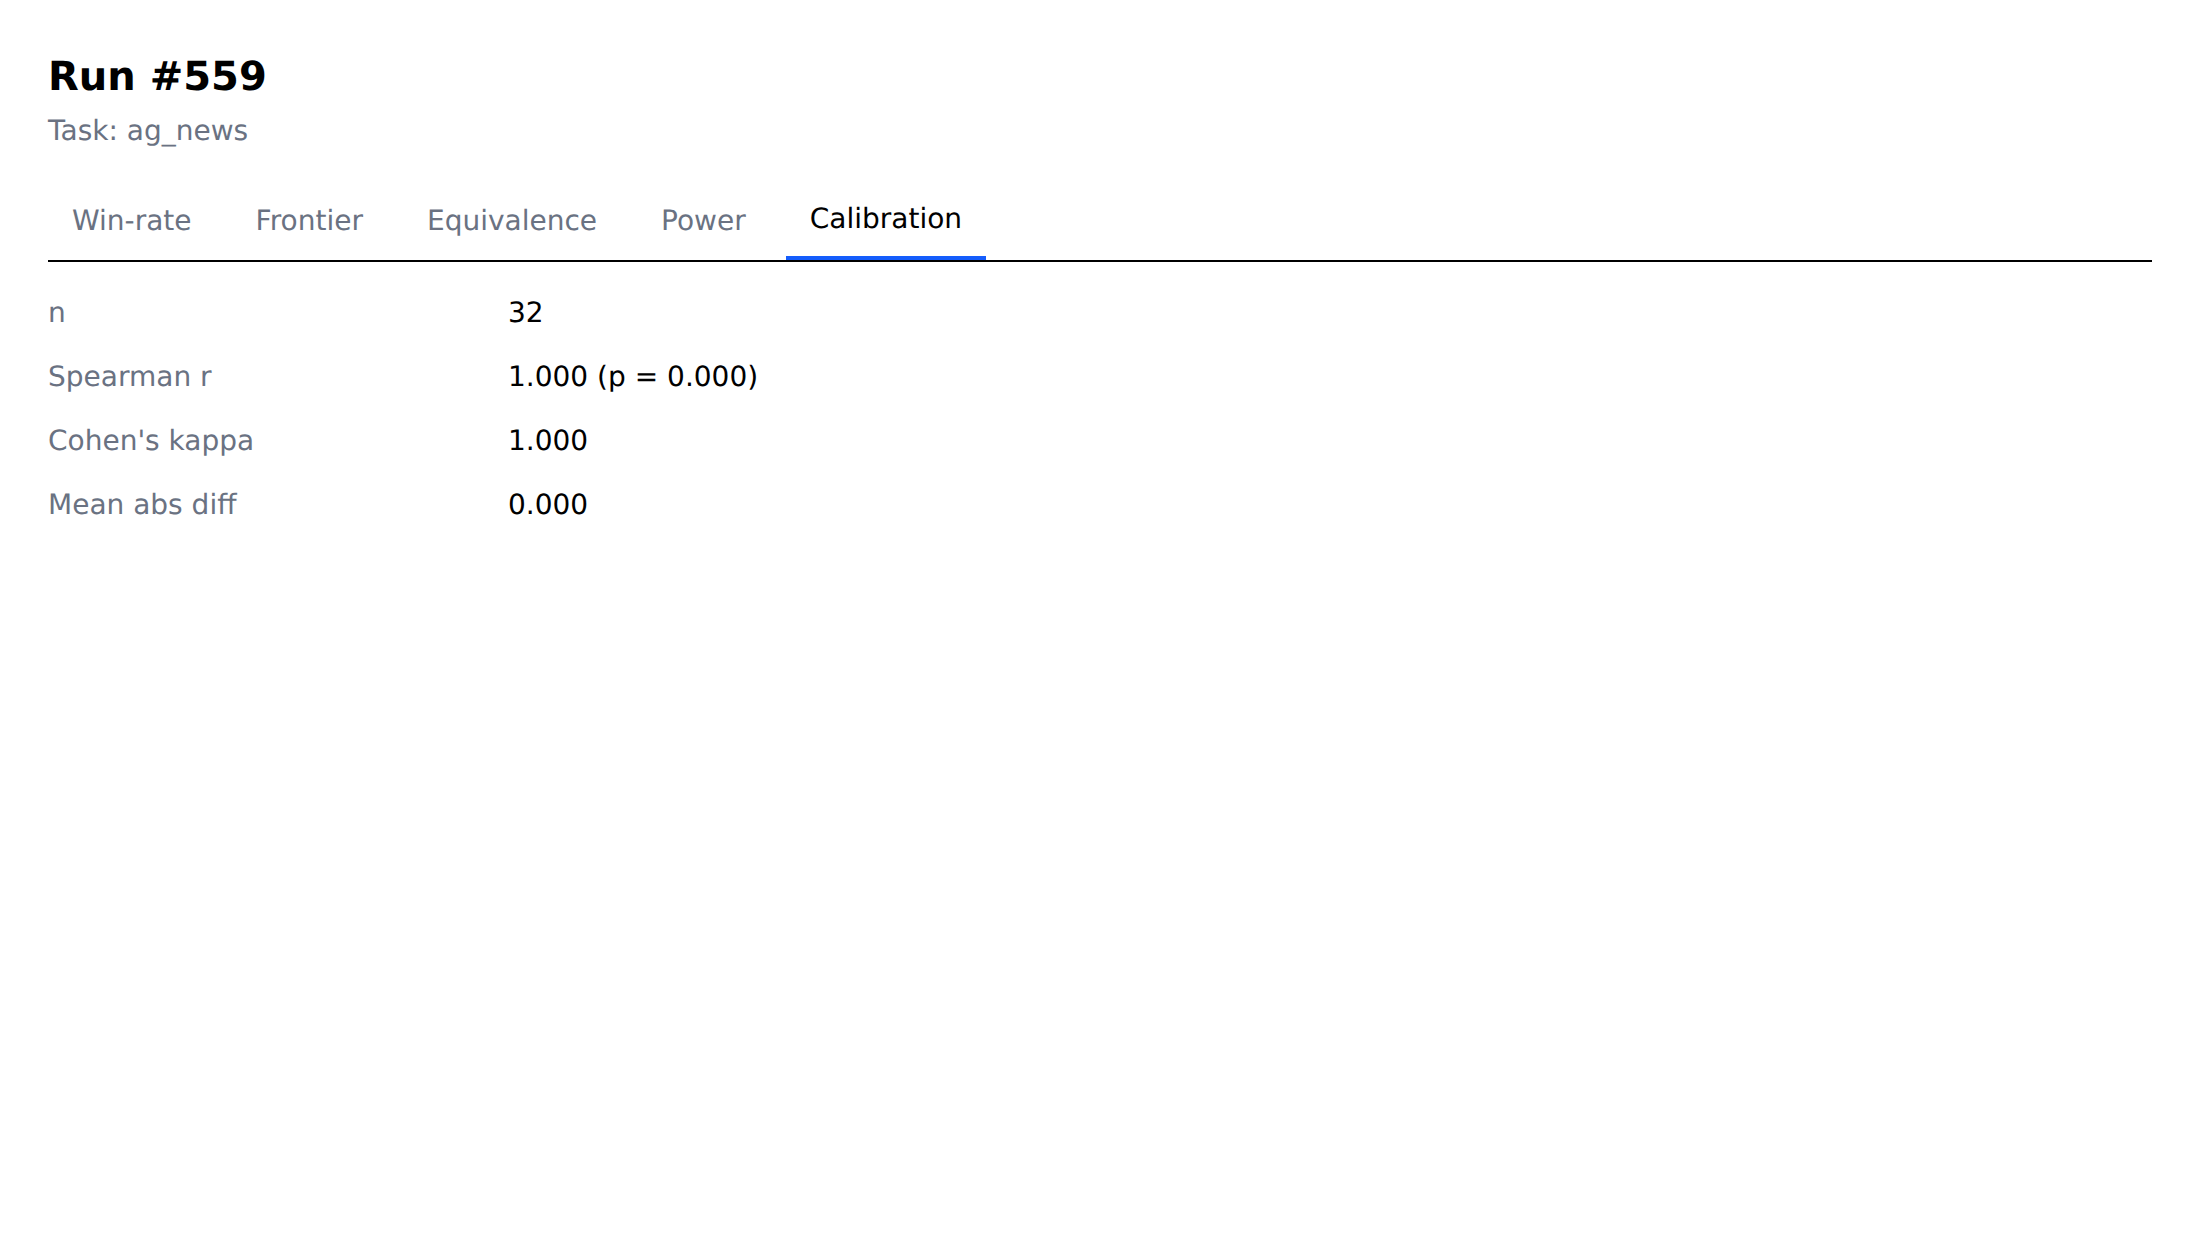
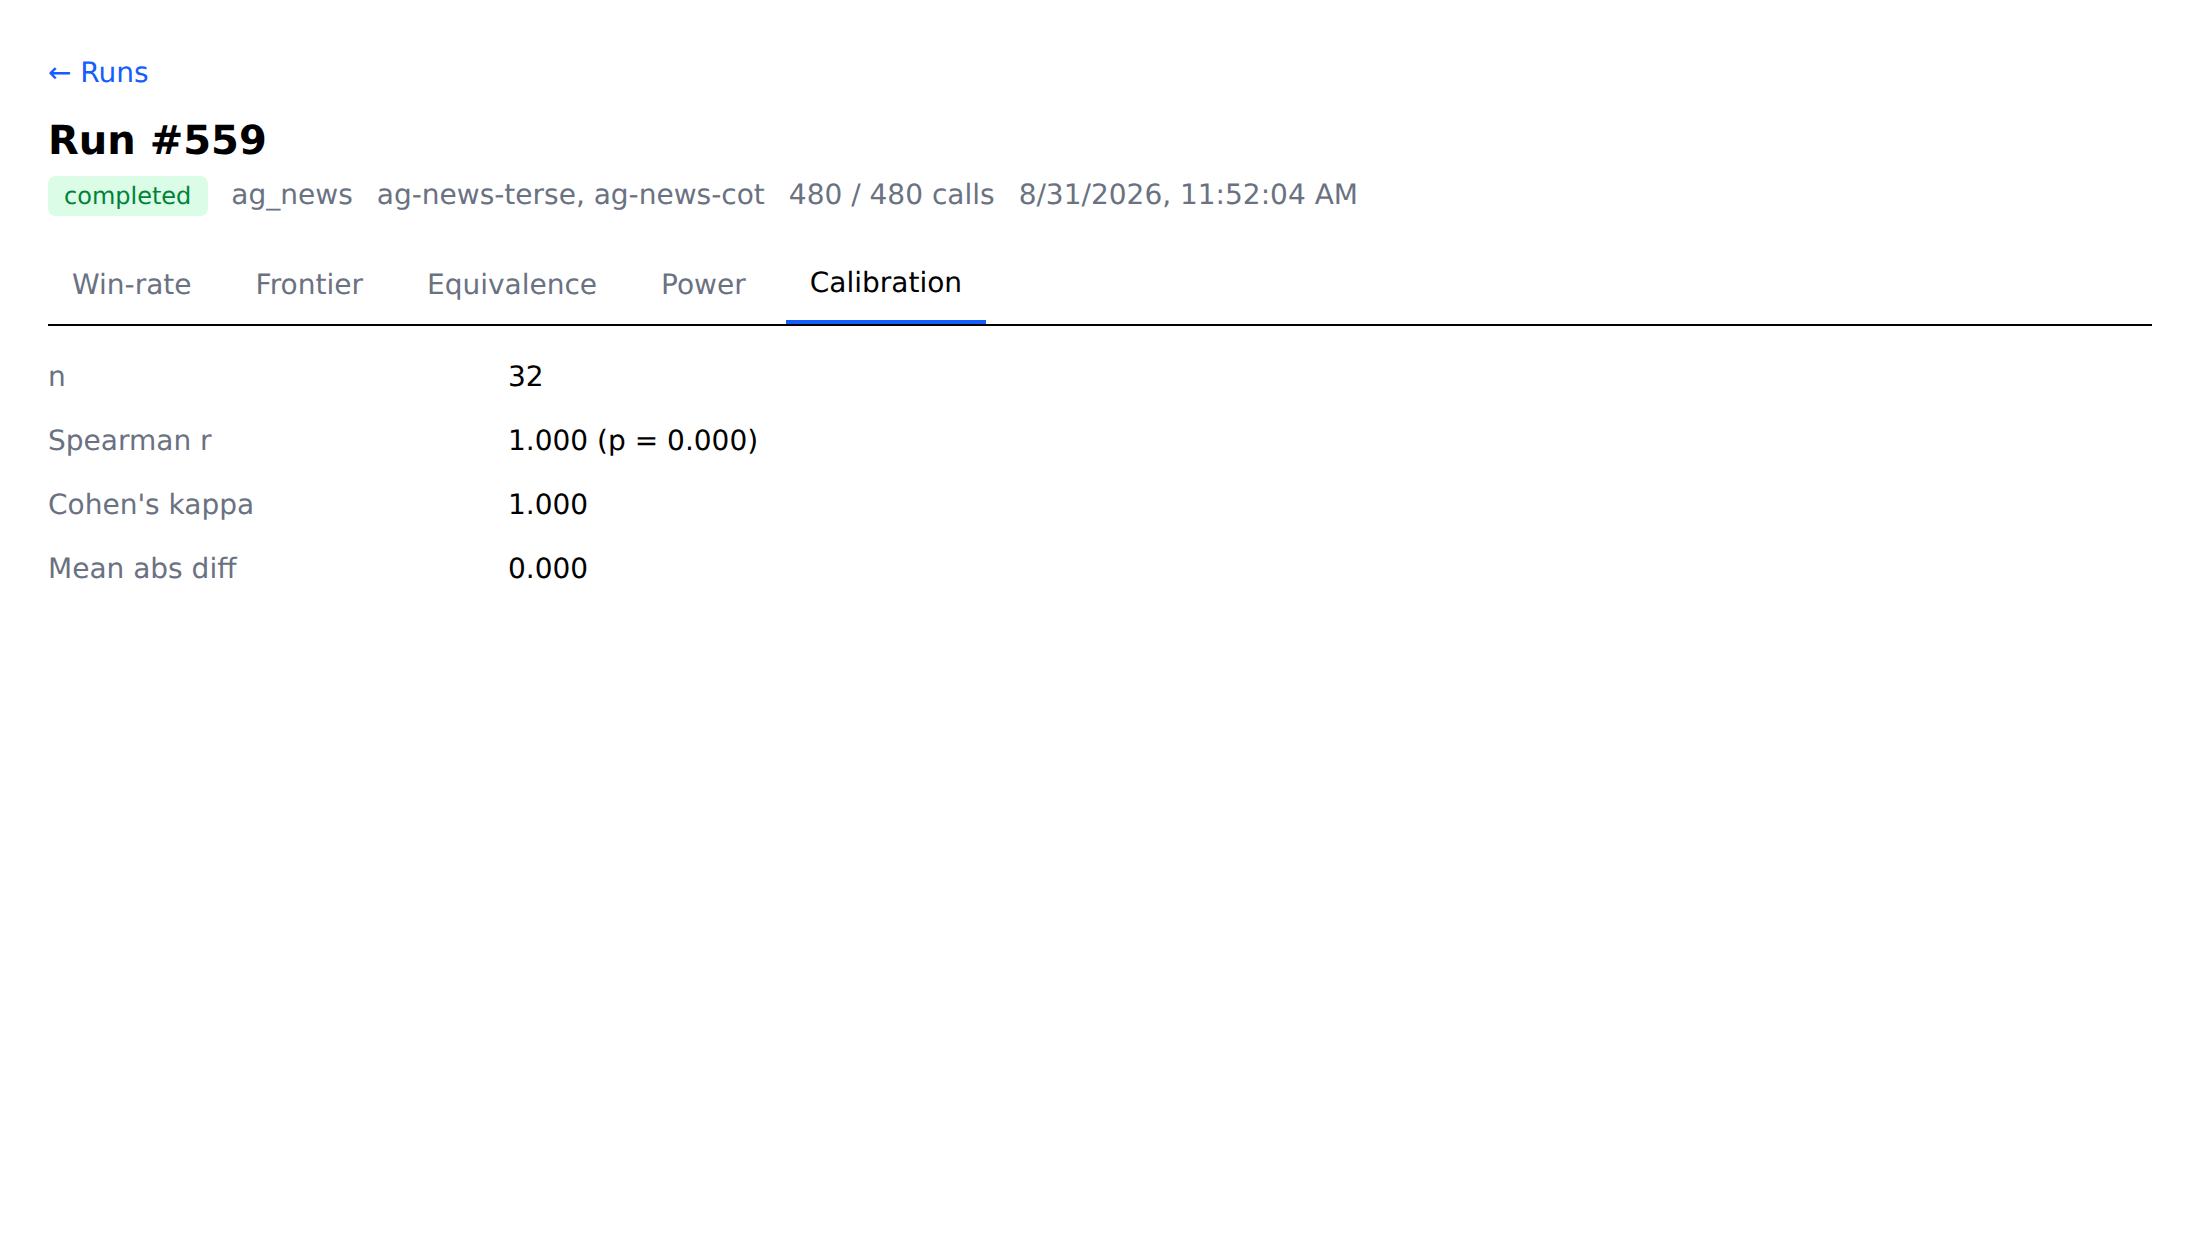
feat(dashboard): run header + back-link, fix frontier label overlap
Dashboard usability:
- RunDashboardPage gets a "← Runs" link and a run header showing status
  badge, task, arm names, call progress (with failed count), and created
  time; polls while the run is non-terminal.
- GET /runs/{id} (RunStatusResponse) now returns created_at + arm_names.

Frontier chart label overlap:
- FrontierChart: arm labels alternate above/below the point and anchor at
  the marker so coincident arms (e.g. two zero-cost local arms) no longer
  print on top of each other; added real axis titles, fixed Y domain 0–5,
  smaller semi-transparent bubbles, and a caption about zero-cost overlap.
- finetune_report.py frontier PNG: alternating label offsets with leader
  lines + axis padding so edge labels stay in frame.

Regenerated the four docs/img dashboard screenshots against run 559.

diff --git a/frontend/src/components/FrontierChart.tsx b/frontend/src/components/FrontierChart.tsx
@@ -14,6 +14,30 @@ import { fetchRunSummary } from '../api/client';
 import { QueryState } from './QueryState';
 import { toFrontierPoints, type FrontierPoint } from './frontier';
 
+// Points can land on top of each other (e.g. two local arms both at cost 0 with
+// near-identical quality). Stagger the labels vertically by index so the text
+// never overlaps, and nudge alternate labels left/right.
+function ArmLabel(props: {
+  x?: number;
+  y?: number;
+  value?: string | number;
+  index?: number;
+}) {
+  const { x = 0, y = 0, value, index = 0 } = props;
+  const above = index % 2 === 0;
+  return (
+    <text
+      x={x + 10}
+      y={y + (above ? -10 : 18)}
+      textAnchor="start"
+      fontSize={11}
+      fill="#4b5563"
+    >
+      {value}
+    </text>
+  );
+}
+
 export function FrontierChart({ runId }: { runId: number }) {
   const { data, isLoading, error, refetch } = useQuery({
     queryKey: ['run-summary', runId],
@@ -24,12 +48,33 @@ export function FrontierChart({ runId }: { runId: number }) {
 
   return (
     <QueryState isLoading={isLoading} error={error} onRetry={refetch}>
-      <ResponsiveContainer width="100%" height={400}>
-        <ScatterChart margin={{ top: 20, right: 20, bottom: 20, left: 20 }}>
+      <p className="mb-2 text-xs text-gray-500">
+        Bubble size ∝ mean latency. Local arms sit at cost 0 and can overlap — hover a
+        bubble for exact values.
+      </p>
+      <ResponsiveContainer width="100%" height={420}>
+        <ScatterChart margin={{ top: 24, right: 56, bottom: 48, left: 16 }}>
           <CartesianGrid strokeDasharray="3 3" />
-          <XAxis type="number" dataKey="cost" name="Mean cost ($)" />
-          <YAxis type="number" dataKey="quality" name="Mean quality" />
-          <ZAxis type="number" dataKey="latency" range={[100, 1000]} name="Mean latency (ms)" />
+          <XAxis
+            type="number"
+            dataKey="cost"
+            domain={[0, (max: number) => (max > 0 ? max * 1.25 : 0.001)]}
+            tickFormatter={(v: number) => `$${v.toFixed(4)}`}
+            label={{ value: 'Mean cost per call ($)', position: 'insideBottom', offset: -12 }}
+          />
+          <YAxis
+            type="number"
+            dataKey="quality"
+            domain={[0, 5]}
+            allowDecimals
+            label={{
+              value: 'Mean judge quality (1–5)',
+              angle: -90,
+              position: 'insideLeft',
+              style: { textAnchor: 'middle' },
+            }}
+          />
+          <ZAxis type="number" dataKey="latency" range={[80, 500]} name="Mean latency (ms)" />
           <Tooltip
             cursor={{ strokeDasharray: '3 3' }}
             content={({ payload }) => {
@@ -45,8 +90,8 @@ export function FrontierChart({ runId }: { runId: number }) {
               );
             }}
           />
-          <Scatter data={points} fill="#2563eb">
-            <LabelList dataKey="arm_name" position="top" />
+          <Scatter data={points} fill="#2563eb" fillOpacity={0.65}>
+            <LabelList dataKey="arm_name" content={<ArmLabel />} />
           </Scatter>
         </ScatterChart>
       </ResponsiveContainer>

diff --git a/frontend/src/pages/RunDashboardPage.tsx b/frontend/src/pages/RunDashboardPage.tsx
@@ -1,12 +1,14 @@
 import { useState } from 'react';
 import { useQuery } from '@tanstack/react-query';
-import { useParams } from 'react-router-dom';
+import { Link, useParams } from 'react-router-dom';
 import { fetchRunStatus } from '../api/client';
+import { StatusBadge } from '../components/StatusBadge';
 import { WinRateTable } from '../components/WinRateTable';
 import { FrontierChart } from '../components/FrontierChart';
 import { CalibrationReport } from '../components/CalibrationReport';
 import { EquivalencePanel } from '../components/EquivalencePanel';
 import { PowerPanel } from '../components/PowerPanel';
+import type { RunStatusResponse } from '../api/types';
 
 type TabKey = 'winrate' | 'frontier' | 'equivalence' | 'power' | 'calibration';
 
@@ -18,6 +20,9 @@ const TABS: { key: TabKey; label: string }[] = [
   { key: 'calibration', label: 'Calibration' },
 ];
 
+const POLL_MS = 3000;
+const TERMINAL_STATUSES = new Set(['completed', 'completed_with_errors']);
+
 export function RunDashboardPage() {
   const { runId } = useParams<{ runId: string }>();
   const [tab, setTab] = useState<TabKey>('winrate');
@@ -27,14 +32,38 @@ export function RunDashboardPage() {
     queryKey: ['run-status', runIdNum],
     queryFn: () => fetchRunStatus(runIdNum),
     enabled: Number.isFinite(runIdNum),
+    refetchInterval: (query) => {
+      const run = query.state.data as RunStatusResponse | undefined;
+      return run && TERMINAL_STATUSES.has(run.status) ? false : POLL_MS;
+    },
   });
+
+  const run = statusQuery.data;
 
   return (
     <div className="p-6">
-      <div className="mb-4">
+      <Link to="/" className="text-sm text-blue-600 hover:underline">
+        ← Runs
+      </Link>
+      <div className="mb-4 mt-2">
         <h1 className="text-xl font-semibold">Run #{runIdNum}</h1>
-        {statusQuery.data && (
-          <p className="mt-1 text-sm text-gray-500">Task: {statusQuery.data.task}</p>
+        {run && (
+          <div className="mt-1 flex flex-wrap items-center gap-x-3 gap-y-1 text-sm text-gray-500">
+            <StatusBadge status={run.status} />
+            <span>{run.task}</span>
+            <span>{run.arm_names.join(', ')}</span>
+            <span>
+              {run.completed + run.failed} / {run.total_calls} calls
+              {run.failed > 0 && <span className="text-red-600"> ({run.failed} failed)</span>}
+            </span>
+            {/* Backend stores naive UTC (no offset), so append 'Z' to parse as UTC. */}
+            <span>{new Date(run.created_at + 'Z').toLocaleString()}</span>
+          </div>
+        )}
+        {statusQuery.error && (
+          <p className="mt-1 text-sm text-red-600">
+            {statusQuery.error instanceof Error ? statusQuery.error.message : 'Failed to load run.'}
+          </p>
         )}
       </div>
       <div className="mb-4 flex gap-2 border-b">

diff --git a/frontend/src/api/types.ts b/frontend/src/api/types.ts
@@ -43,6 +43,8 @@ export interface RunStatusResponse {
   run_id: number;
   status: string;
   task: string;
+  created_at: string;
+  arm_names: string[];
   total_calls: number;
   completed: number;
   failed: number;

diff --git a/backend/scripts/finetune_report.py b/backend/scripts/finetune_report.py
@@ -163,8 +163,8 @@ def write_frontier_png(summary: list[dict], out_path: Path) -> bool:
     except ImportError:
         return False
     max_cost = max((row.get("mean_cost_estimate_usd") or 0.0 for row in summary), default=0.0)
-    fig, ax = plt.subplots(figsize=(6, 4))
-    for row in summary:
+    fig, ax = plt.subplots(figsize=(7, 4.5))
+    for i, row in enumerate(summary):
         x = row.get("mean_latency_ms") or 0
         y = row.get("mean_judge_score") or 0
         cost = row.get("mean_cost_estimate_usd")
@@ -176,11 +176,26 @@ def write_frontier_png(summary: list[dict], out_path: Path) -> bool:
         else:
             size = 40.0
             label = f"{row['arm_name']} ($0/call)"
-        ax.scatter(x, y, s=size)
-        ax.annotate(label, (x, y), fontsize=8, xytext=(4, 4), textcoords="offset points")
+        ax.scatter(x, y, s=size, zorder=3)
+        # Arms can land almost on top of each other (two local arms at the same
+        # latency/quality). Alternate the label above/below the point and draw a
+        # thin leader line so the text never overlaps another label.
+        dy = 14 if i % 2 == 0 else -14
+        ax.annotate(
+            label,
+            (x, y),
+            fontsize=8,
+            xytext=(0, dy),
+            textcoords="offset points",
+            ha="center",
+            va="bottom" if dy > 0 else "top",
+            arrowprops={"arrowstyle": "-", "color": "0.6", "lw": 0.6},
+        )
     ax.set_xlabel("mean latency (ms)")
     ax.set_ylabel("mean judge_score (1–5)")
     ax.set_title("Cost / latency / quality frontier (marker size = $/call)")
+    # Pad the axes so edge points and their labels stay inside the frame.
+    ax.margins(x=0.25, y=0.30)
     fig.tight_layout()
     fig.savefig(out_path, dpi=120)
     plt.close(fig)

diff --git a/backend/app/api/routes/runs.py b/backend/app/api/routes/runs.py
@@ -41,6 +41,8 @@ class RunStatusResponse(BaseModel):
     run_id: int
     status: str
     task: str = "financial_sentiment"
+    created_at: datetime
+    arm_names: list[str]
     total_calls: int
     completed: int
     failed: int
@@ -212,6 +214,8 @@ async def get_run_status(run_id: int, session: AsyncSession = Depends(get_sessio
         run_id=run.id,
         status=status,
         task=run.task,
+        created_at=run.created_at,
+        arm_names=run.arm_names,
         total_calls=run.total_calls,
         completed=completed,
         failed=failed,

diff --git a/backend/tests/api/test_runs.py b/backend/tests/api/test_runs.py
@@ -314,6 +314,9 @@ def test_get_run_status_is_completed_when_all_succeed():
         assert body["completed"] == 2
         assert body["failed"] == 0
         assert body["pending"] == 0
+        # header fields for the dashboard run summary
+        assert body["arm_names"] == ["fake-arm"]
+        assert body["created_at"]
     finally:
         _delete_run(run_id)
         _delete_example(example_id)

diff --git a/backend/tests/scripts/test_finetune_report.py b/backend/tests/scripts/test_finetune_report.py
@@ -27,6 +27,7 @@ def run_status(run_id=5, status="completed", total=20):
     return RunStatusResponse(
         run_id=run_id, status=status, total_calls=total,
         completed=total, failed=0, pending=0,
+        created_at="2026-08-30T00:00:00", arm_names=["base", "finetuned"],
     ).model_dump(mode="json")
 
 
